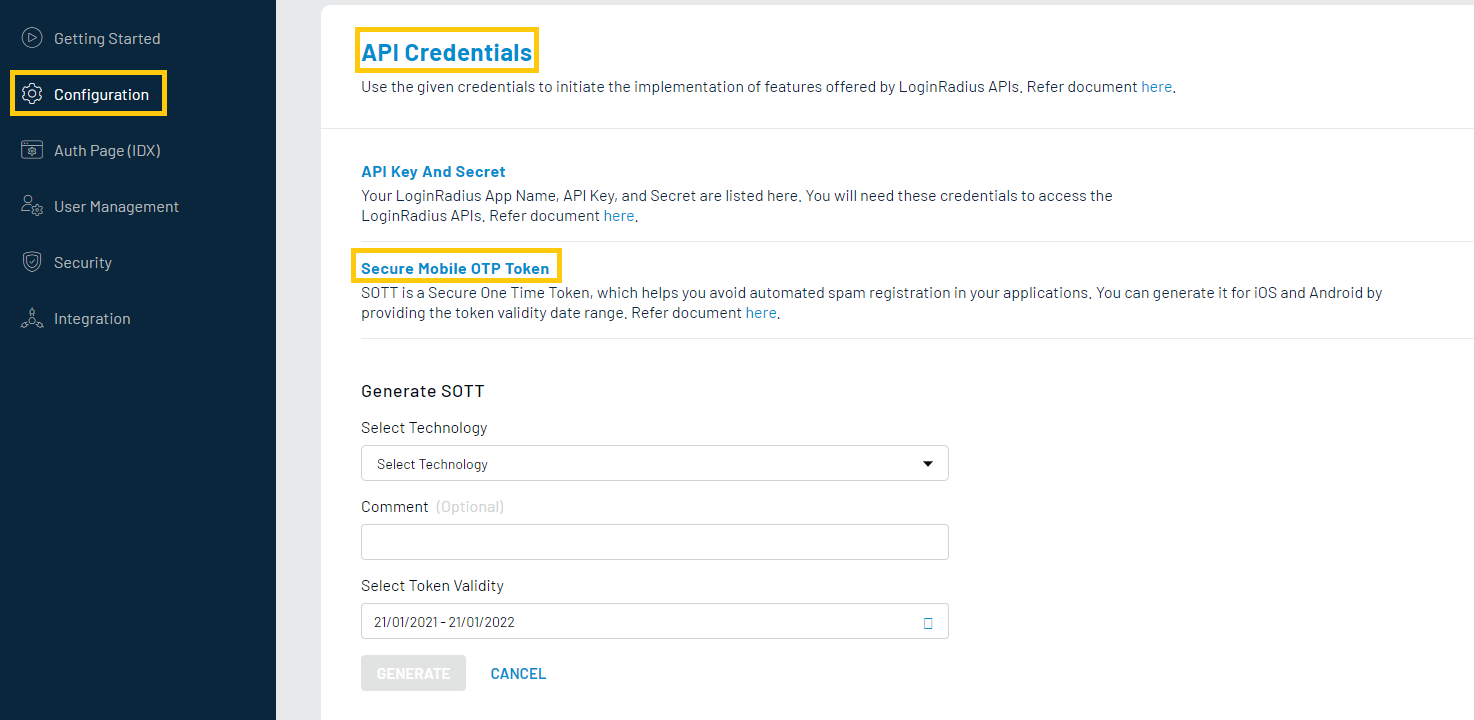
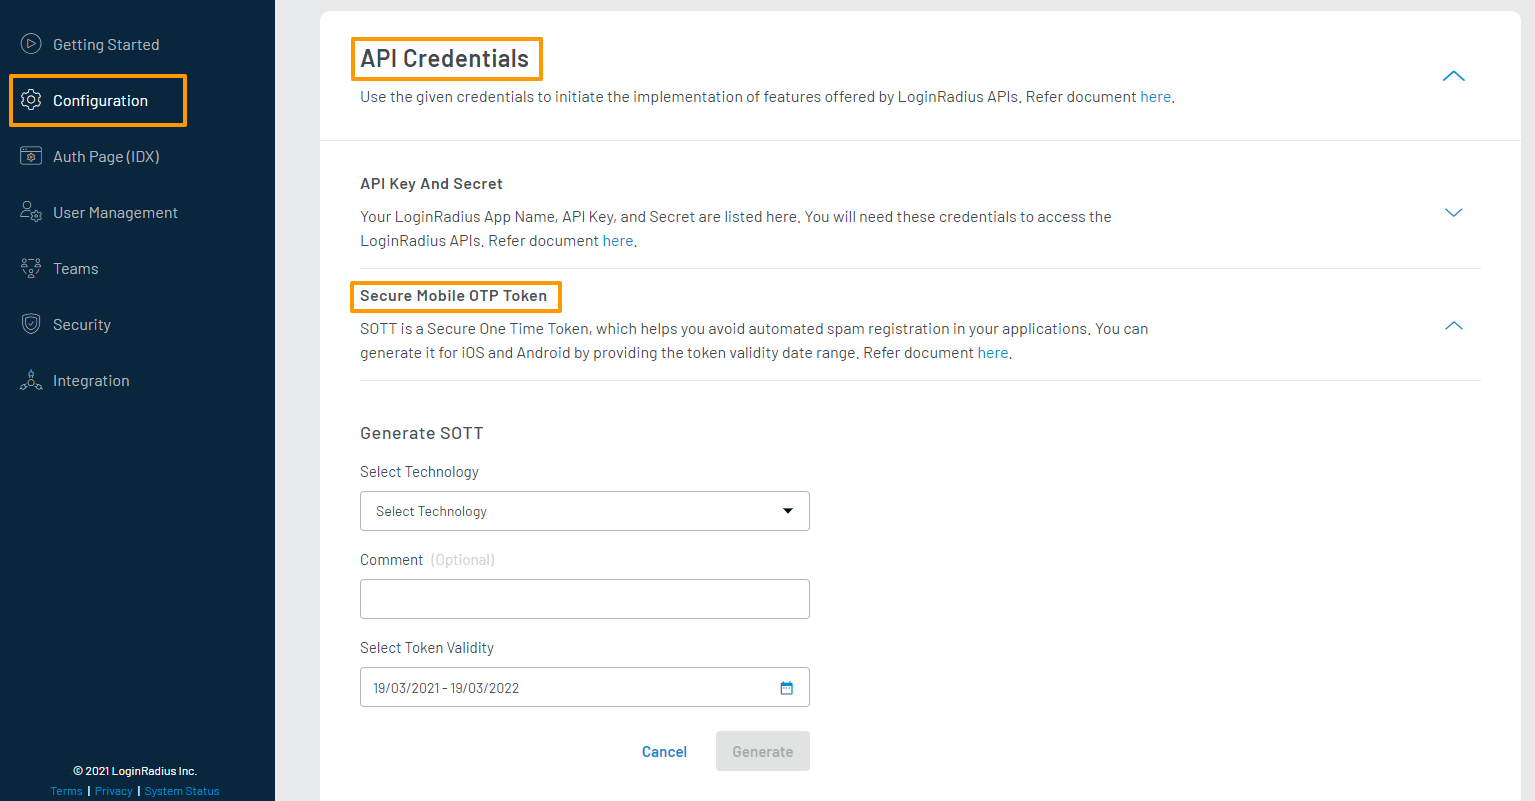
PAC-6351 Generate SOTT doc

diff --git a/content/concepts/sott/index.md b/content/concepts/sott/index.md
@@ -1,0 +1,158 @@
+---
+title: "Secure One Time Token"
+tags: ["SOTT", "Secure One Time Token"]
+description: "This is a document detailing the concept of the Secure One Time Token."
+---
+
+# Secure One Time Token
+
+The LoginRadius Registration APIs require an API key and a Secure One Time Token to authenticate requests. This SOTT acts as a layer for you to control your consumer's access to register in your app.
+
+An SOTT combines data from your API secret, your API key, and a defined timestamp (with a start and end time) into an encrypted string that will be validated when registration requests are made to the LoginRadius Registration API. The aim of this token is to ensure that only you (using your API secret) can grant access to consumers to register in your app.
+
+## Generating Your SOTT
+
+You can choose to either [generate static SOTTs](#generate-sott-in-your-dashboard) using the LoginRadius Dashboard, or generate dynamic SOTTs in your application using [the provided algorithm](#generate-sott-manually), or [our SDKs](#generate-sott-using-sdks).
+
+### Generate SOTT in your Dashboard
+
+To generate SOTTs in your dashboard, log in to your [LoginRadius Dashboard](https://dashboard.loginradius.com/dashboard) account. From the left navigation panel, click **Configuration** and then navigate to the **API Credentials** section.
+
+Click the **Secure Mobile OTP Token** sub-section, and the **Generate SOTT** screen will appear:
+
+  ![alt_text](../../assets/blog-common/sott.png "image_tooltip")
+
+If you have already generated an SOTT, you can generate additional tokens by clicking the **Generate SOTT** button available at the bottom right of the screen as highlighted below:
+
+  ![alt_text](images/generate-sott.png "image_tooltip")
+
+Enter the required details in each respective field in the form provided, and click the **Generate** button to generate your SOTT.
+
+  ![alt_text](images/generate-sott-form.png "image_tooltip")
+
+These are the fields that you will find in the **Generate SOTT** form, and their descriptions:
+
+  * **Select Technology**: Select an option to be associated with this SOTT. The option you choose has no effect on your generated SOTT.
+
+  * **Comment**: Enter an optional comment to be associated with this SOTT.
+
+  * **Select Token Validity**: Select the date range for which this SOTT will remain valid. Your consumer will not be able to register using an expired SOTT.
+
+> Note: When your SOTT is generated, be sure to save this somewhere as this will not be saved in your dashboard.
+
+> Note: We recommend that you dynamically generate SOTTs, as static SOTTs will usually have be valid for long periods of time.
+
+### Generate SOTT manually
+
+To dynamically generate SOTTs, the algorithm is provided below.
+
+#### Generate PBKDF2 key
+
+The key used to encrypt the token string is generated using PBKDF2 using the following inputs:
+
+* **Pseudo-random Function**: SHA1
+* **Password**: Your LoginRadius API Secret
+* **Salt**: 8 byte empty buffer
+* **Iterations**: 10000
+* **Key Length**: 32 bytes
+
+#### Generate String
+
+Using the date format `YYYY/MM/DD H:mm:ss`, declare the start and end dates for your SOTT's validity (in UTC). With these values, combine it into a string with your LoginRadius API key in the following format:
+
+```
+<Start Date>#<LoginRadius API Key>#<End Date>
+```
+
+For example, your string could look like the following:
+
+```
+2021/03/19 22:08:09#00000000-0000-0000-0000-000000000000#2021/03/19 22:18:09
+```
+
+#### Encrypt String
+
+Using 256 bit AES encryption with mode CBC (aes-256-cbc), the string value `tu89geji340t89u2` as your initialization vector, and the PBKDF2 derived key, encrypt the formatted string. Your result should be a base64 encoded string.
+
+#### Generate Hash of the Encrypted String
+
+Using the MD5 algorithm, generate a hash of the encrypted string. Your result should be a base16 (hex) encoded string.
+
+#### Combine the Encrypted String with the MD5 Hash
+
+Combine both the encrypted string with the MD5 hash in the following format:
+
+```
+<Encrypted String>*<Hash>
+```
+
+This is your SOTT that you can use to register your consumers with.
+
+#### Example Implementation
+
+Here is an example function in Node.js that will generate an SOTT for you:
+
+```js
+const crypto = require("crypto");
+
+/**
+ * @param {*} secret      Your LoginRadius API Secret
+ * @param {*} key         Your LoginRadius API Key
+ * @param {*} startDate   Start Date for token's validity
+ * @param {*} endDate     End Date for token's validity
+ */
+function generateSott(secret, key, startDate, endDate) {
+  return derivePbkdf2Key(secret).then(derivedKeyBuffer => {
+    const formattedStringBuffer = generateFormattedStringBuffer(key, startDate, endDate);
+    const encryptedStringBuffer = encryptString(derivedKeyBuffer, formattedStringBuffer);
+    const encryptedStringHash = generateHash(encryptedStringBuffer);
+    const resultSott = formatSott(encryptedStringBuffer, encryptedStringHash);
+
+    return resultSott;
+  });
+}
+
+function derivePbkdf2Key(secret) {
+  return new Promise((resolve, reject) => {
+    crypto.pbkdf2(secret, Buffer.alloc(8), 10000, 32, "sha1", function(error, derivedKey) {
+      if (error) reject(error);
+      resolve(derivedKey);
+    });
+  });
+}
+
+function generateFormattedStringBuffer(key, startDate, endDate) {
+  return Buffer.from(`${startDate}#${key}#${endDate}`, "utf8");
+}
+
+function encryptString(keyBuffer, inputStringBuffer) {
+  const ivBuffer = Buffer.from("tu89geji340t89u2", "utf8");
+  const cipher = crypto.createCipheriv("aes-256-cbc", keyBuffer, ivBuffer);
+  let cipherText = cipher.update(inputStringBuffer, "utf8", "base64");
+  cipherText += cipher.final("base64");
+  
+  return cipherText;
+}
+
+function generateHash(inputBuffer) {
+  const hash = crypto.createHash("md5");
+  hash.update(inputBuffer, "utf8");
+
+  return hash.digest().toString("hex");
+}
+
+function formatSott(encryptedString, encryptedStringHash) {
+  return `${encryptedString}*${encryptedStringHash}`;
+}
+```
+
+### Generate SOTT using SDKs
+
+You can also use our provided SDKs to dynamically generate SOTTs. Our SDKs implement the same algorithm described above.
+
+For example, using the Java SDK, you can generate an SOTT using the following method:
+
+```java
+Sott sott = new Sott();
+String sottResponse = sott.main("<Your API Key>", "<Your API Secret>");
+```
